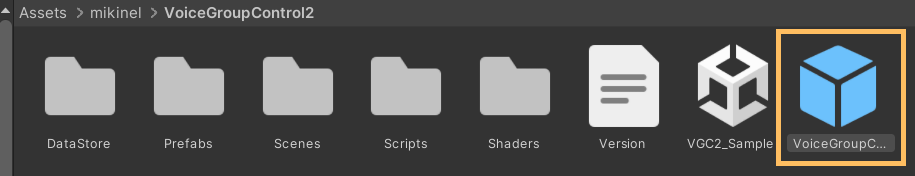
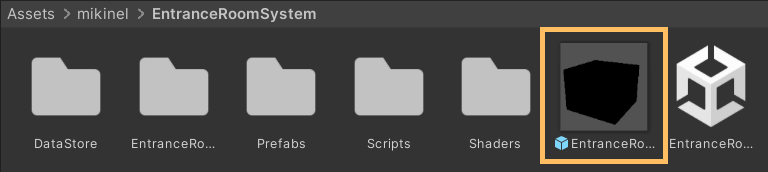
クイックインストール、はじめに を更新

diff --git a/ers-docs/docs/getting-started.md b/ers-docs/docs/getting-started.md
@@ -6,14 +6,14 @@ import ClickableImage from '@site/src/components/ClickableImage';
 
 # はじめに
 
-VGC2 を使い始めるための手順を説明します。
+ERSを使い始めるための手順を説明します。
 
-## UnityプロジェクトにVGC2を導入
+## UnityプロジェクトにERSを導入
 
 ### 1. Boothからパッケージをダウンロード
 
 1. [Booth](https://nmxi.booth.pm/)の販売ページにアクセス
-2. VGC2 を購入または試用版をダウンロード
+2. ERS を購入または試用版をダウンロード
 3. ダウンロードしたZIPファイルを解凍
 
 ### 2. UnityPackageのインポート

diff --git a/ers-docs/docs/quick-installation.md b/ers-docs/docs/quick-installation.md
@@ -10,6 +10,8 @@ Entrance Room System（ERS）を短時間で導入するためのガイドです
 
 <ClickableImage src="/img/ers-quick-install-overview.png" alt="ERS クイックインストールの概要" />
 
+<p style={{ textAlign: 'center' }}>クイックインストールで配置するエントランスルームの見た目</p>
+
 ## 導入手順
 
 ### 1. パッケージのインポート
